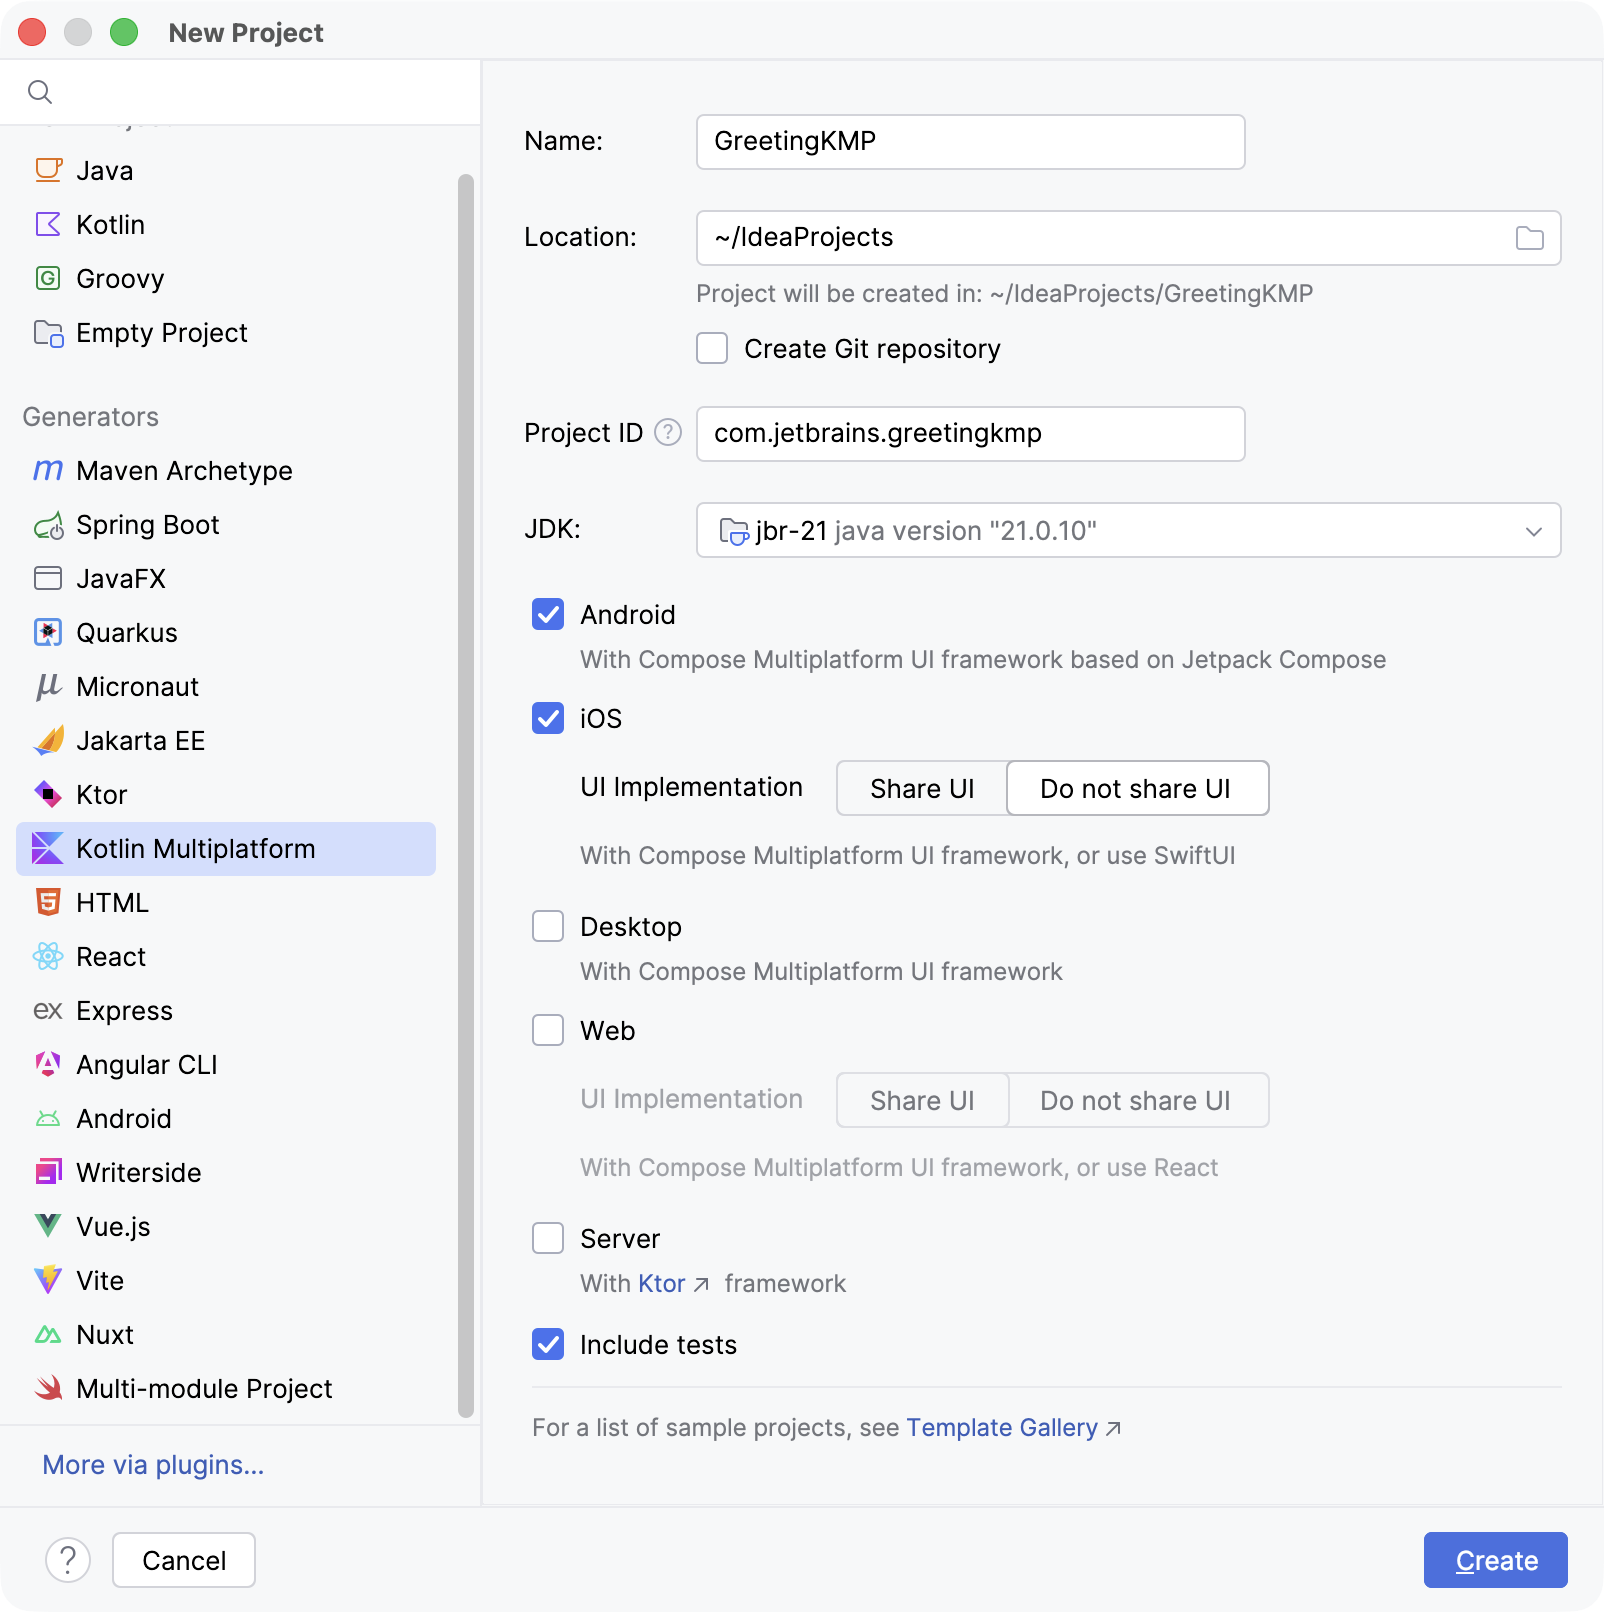
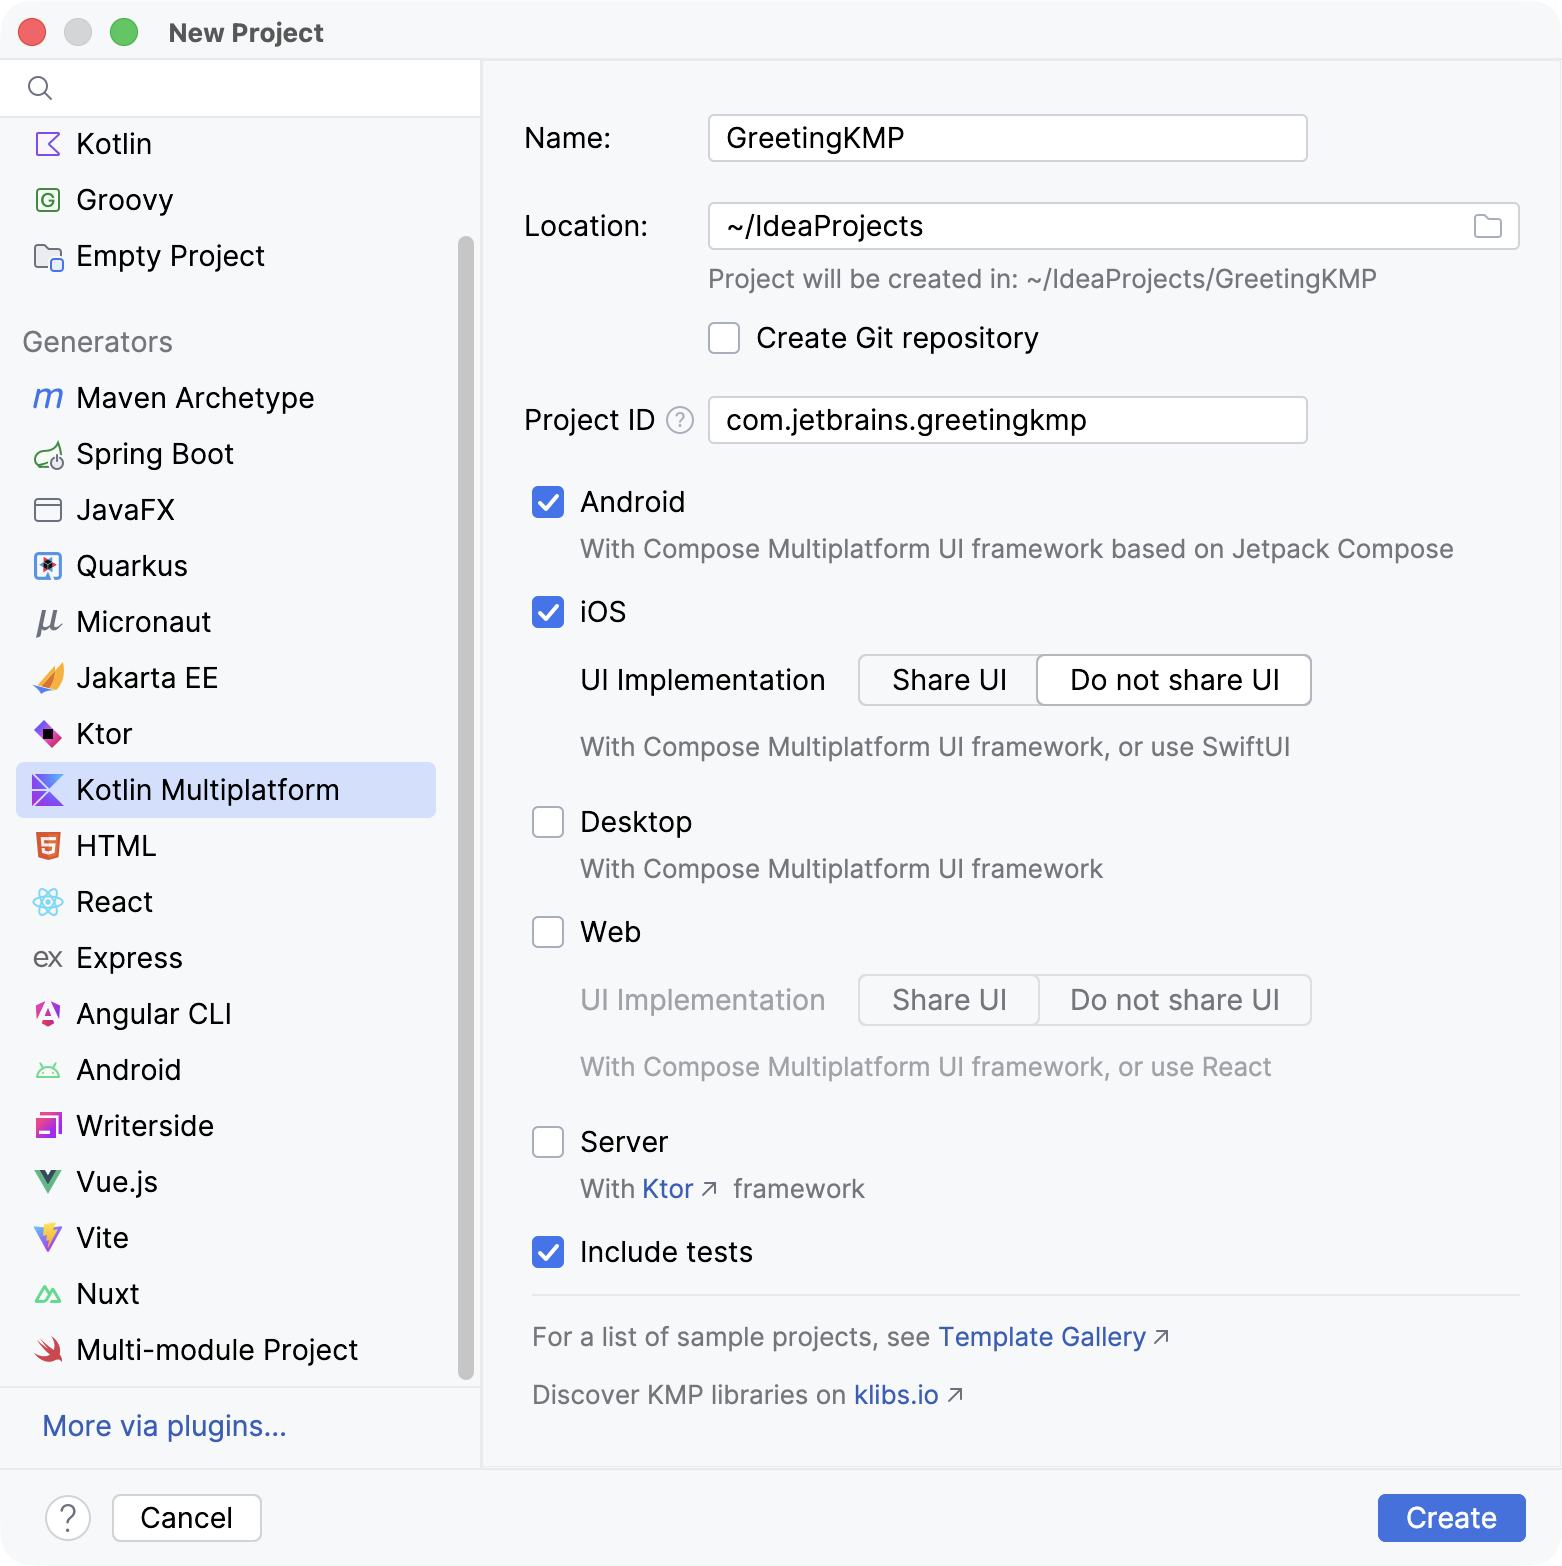
update: new screenshots for both get-started tutorials

diff --git a/topics/development/multiplatform-ktor-sqldelight.md b/topics/development/multiplatform-ktor-sqldelight.md
@@ -11,31 +11,16 @@ This tutorial demonstrates how to use IntelliJ IDEA to create an advanced mobile
 Kotlin Multiplatform.
 This application is going to:
 
-* Retrieve data over the internet from the public [Launch Library](https://lldev.thespacedevs.com/docs) using Ktor
-* Save the data in a local database using SQLDelight.
+* Retrieve data over the internet from the public [Launch Library](https://lldev.thespacedevs.com/docs) using [Ktor](https://ktor.io/docs/create-client.html)
+  and [`kotlinx.serialization`](https://github.com/Kotlin/kotlinx.serialization).
+* Save the data in a local database using [SQLDelight](https://github.com/cashapp/sqldelight).
 * Display a list of space rocket launches together with the launch date, results, and a detailed description of the launch.
+* Provide platform-specific database drivers using [Koin](https://insert-koin.io/).
 
 The application will include a module with shared code for both the iOS and Android platforms. The business logic and data
 access layers will be implemented only once in the shared module, while the UI of both applications will be native.
 
 ![Emulator and Simulator](android-and-ios.png){width=600}
-
-<!-- TODO instead of the following list, let's talk about what we're achieving here:
-* Shared networking
-* Shared database access
-* Shared serialization
-* DI via Koin
--->
-
-You will use the following multiplatform libraries in the project:
-
-* [Ktor](https://ktor.io/docs/create-client.html) as an HTTP client for retrieving data over the internet.
-* [`kotlinx.serialization`](https://github.com/Kotlin/kotlinx.serialization) to deserialize JSON responses into objects
-  of entity classes.
-* [`kotlinx.coroutines`](https://github.com/Kotlin/kotlinx.coroutines) to write asynchronous code.
-* [SQLDelight](https://github.com/cashapp/sqldelight) to generate Kotlin code from SQL queries and create a type-safe
-  database API.
-* [Koin](https://insert-koin.io/) to provide platform-specific database drivers via dependency injection.
 
 > You can find the [template project](https://github.com/kotlin-hands-on/kmm-networking-and-data-storage) as well as the
 > source code of the [final application](https://github.com/kotlin-hands-on/kmm-networking-and-data-storage/tree/final)

diff --git a/topics/multiplatform-onboard/multiplatform-create-first-app.md b/topics/multiplatform-onboard/multiplatform-create-first-app.md
@@ -89,7 +89,7 @@ The KMP IDE plugin provides ready-to-go run configurations for selected targets:
 * Run **iosApp** to launch the iOS app on the iPhone Simulator.
   To run the iOS app, you need Xcode installed and the latest iOS SDK downloaded through Xcode.
 
-<!-- TODO needs a new screenshot -->
+![Running iOS and Android apps](first-run-ios-android.png){width="700"}
 
 > For details on creating new emulators or connecting to physical devices, see [](build-and-run-kmp.md).
 >
@@ -115,7 +115,7 @@ You will alter the common code and then run the apps again to see how native UIs
 4. Import the `kotlin.random.Random` class following the IDE's suggestion.
 5. Run your apps again to see the new greeting produced both in iOS and Android:
 
-<!-- TODO needs screenshots in tabs, like for CMP -->
+![Running iOS and Android apps with the updated greeting](first-run-ios-android-updated.png){width="700"}
 
 ## What's next
 

diff --git a/topics/compose-onboard/compose-multiplatform-create-first-app.md b/topics/compose-onboard/compose-multiplatform-create-first-app.md
@@ -38,7 +38,7 @@ With the IDE and the Kotlin Multiplatform IDE plugin installed, you can create a
     Make sure that the **Share UI** option is selected for iOS and web.
 5. Once you've specified all the fields and targets, click **Create**.
 
-   ![Create Compose Multiplatform project](create-compose-multiplatform-project.png){width=800}
+   ![Create a Compose Multiplatform project](create-compose-multiplatform-project.png){width=800}
 
 The first import takes a couple of minutes.
 After it is done, make sure that preflight checks are all green (**View | Tool Windows | Projects Environment Preflight Checks**).
